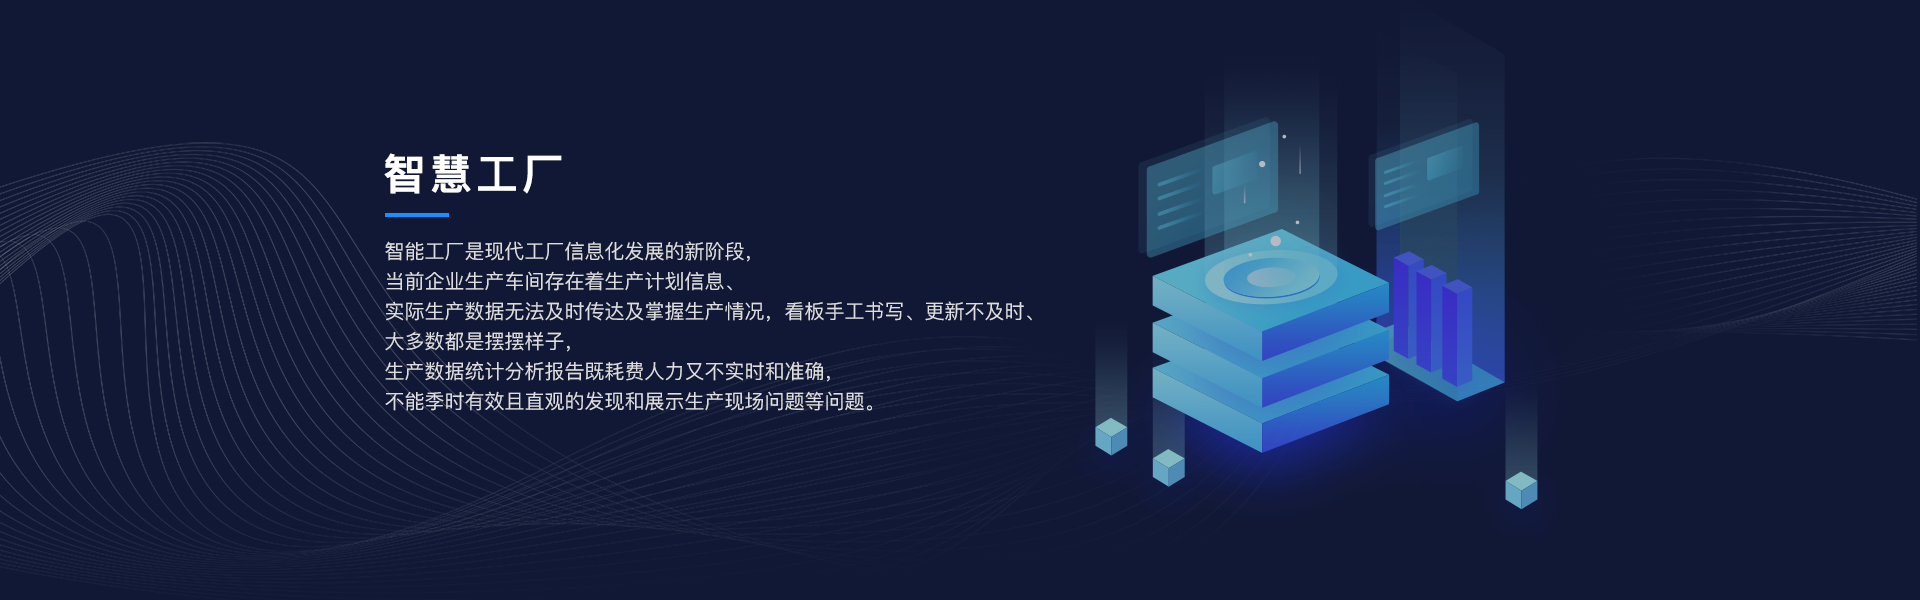
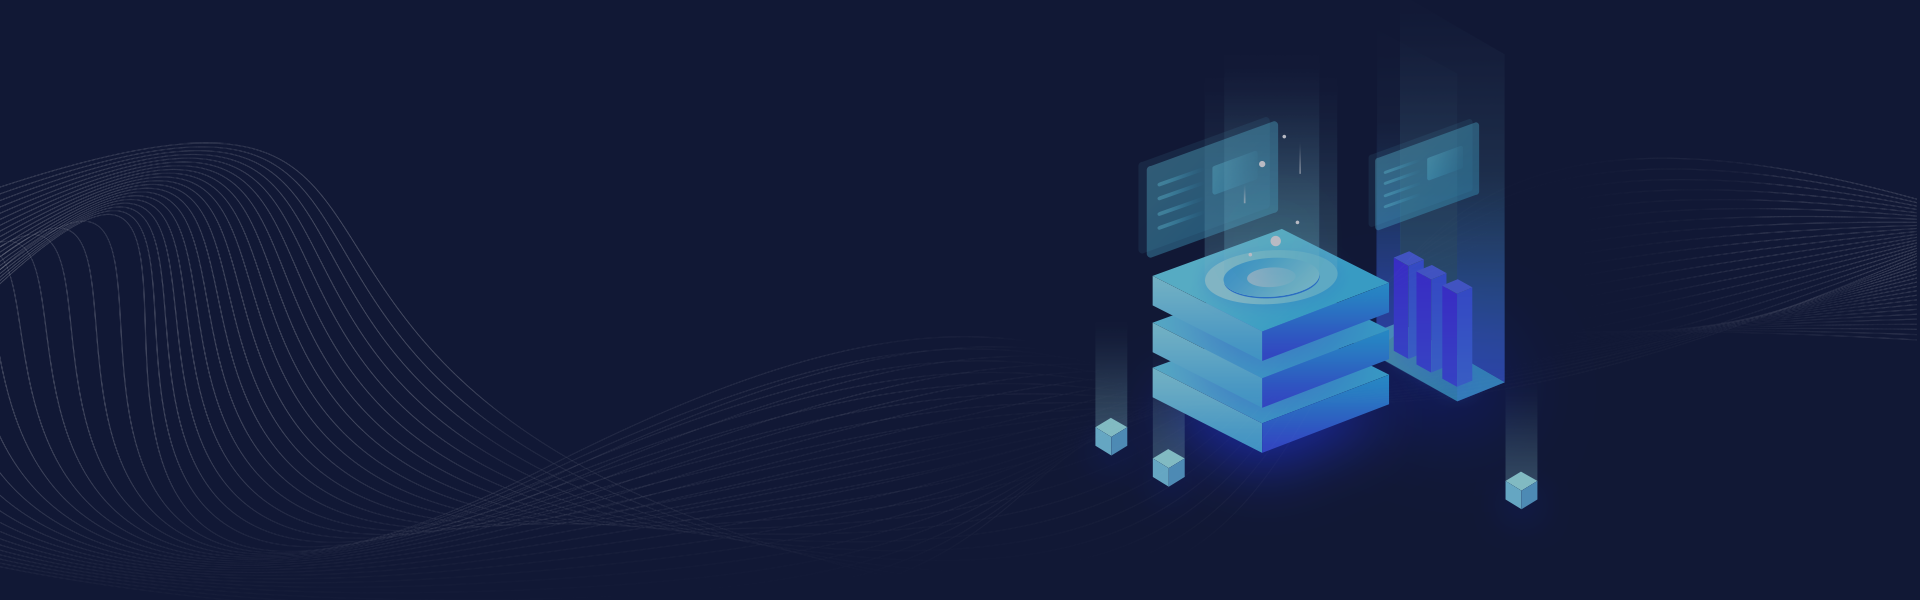
app banner修改

Changed region(s): [[0.1875, 0.39, 0.5312, 0.69], [0.1875, 0.24, 0.3125, 0.33]]

diff --git a/views/SmartFinance.html b/views/SmartFinance.html
@@ -57,8 +57,9 @@
             <ul class="nav navbar-nav">
               <li class="dropdown btnBox dropdownActive dropdownShow"><a href="../index.html">首页</a></li>
               <li class="dropdown btnBox">
-                <a href="javascript:void(0)" class="dropdown-toggle" data-toggle="dropdown" role="button" aria-haspopup="true"
-                  aria-expanded="false">产品服务<span class="spanBtn glyphicon glyphicon-menu-down"></span></a>
+                <a href="javascript:void(0)" class="dropdown-toggle" data-toggle="dropdown" role="button"
+                  aria-haspopup="true" aria-expanded="false">产品服务<span
+                    class="spanBtn glyphicon glyphicon-menu-down"></span></a>
                 <ul class="dropdown-menu">
                   <li><a href="./VisualTerrace.html">数据可视化平台</a></li>
                   <li><a href="./ProductSerice.html">数据服务</a></li>
@@ -67,8 +68,9 @@
                 </ul>
               </li>
               <li class="dropdown btnBox">
-                <a href="javascript:void(0)" class="dropdown-toggle  navActive" data-toggle="dropdown" role="button" aria-haspopup="true"
-                  aria-expanded="false">解决方案<span class="spanBtn glyphicon glyphicon-menu-down"></span></a>
+                <a href="javascript:void(0)" class="dropdown-toggle  navActive" data-toggle="dropdown" role="button"
+                  aria-haspopup="true" aria-expanded="false">解决方案<span
+                    class="spanBtn glyphicon glyphicon-menu-down"></span></a>
                 <ul class="dropdown-menu dropdown-doublerow">
                   <li><a href="javascript:void(0)">智慧城市</a></li>
                   <li><a href="javascript:void(0)">智慧工厂</a></li>
@@ -83,8 +85,9 @@
               <li class="dropdown btnBox"><a href="./ClientCase.html">客户案例</a></li>
               <li class="dropdown btnBox"><a href="./UserCenter.html">用户中心</a></li>
               <li class="dropdown btnBox">
-                <a href="javascript:void(0)" class="dropdown-toggle" data-toggle="dropdown" role="button" aria-haspopup="true"
-                  aria-expanded="false">关于我们<span class="spanBtn glyphicon glyphicon-menu-down"></span></a>
+                <a href="javascript:void(0)" class="dropdown-toggle" data-toggle="dropdown" role="button"
+                  aria-haspopup="true" aria-expanded="false">关于我们<span
+                    class="spanBtn glyphicon glyphicon-menu-down"></span></a>
                 <ul class="dropdown-menu">
                   <li><a href="./CompanyLetter.html">公司介绍</a></li>
                   <li><a href="./Aboutus.html">加入我们</a></li>
@@ -101,7 +104,21 @@
     </div>
     <!-- 智慧能源内容 -->
     <div class="solution-content">
-      <div class="article-introduce-jr"></div>
+      <div class="article-introduce-jr">
+        <div class="article-box">
+          <h4 class="article-title">智慧金融</h4>
+          <div class="bottom-line"></div>
+          <div class="article-text">
+            智能金融(Smart finance)秉承“以客户为中心，</br>
+            实现共赢之道”的服务理念，</br>
+            为金融机构量身打造新型“智慧金融”可视化平台，</br>
+            提供IT咨询、产品研发、系统集成、系统运维、软件外包、</br>
+            云计算、大数据分析等全方位信息可视化化服务，</br>
+            在帮助客户进一步提升信息化管理水平的同时，</br>
+            能够使客户更加智慧地做出业务决策。</br>
+          </div>
+        </div>
+      </div>
       <!-- 加入我们 -->
       <div class="introduced-box">
         <div class="introduced-content">

diff --git a/js/rollList.js b/js/rollList.js
@@ -1,14 +1,35 @@
 $('.btnBox').mouseenter(function () {
   $(this).children().attr("style", "display:block;");
 })
-// $('.dropdown-menu').mouseenter(function () {
-//   $(this).attr("style", "display:block;");
-// })
-$('.mask').click(function () {
-  
-})
 $('.btnBox').mouseleave(function () {
   $(this).children().eq(1).attr("style", "display:none;");
 })
 
-// 划入导航
+window.onload = function () {
+  var arr = $('.dropdown').find('a')
+  var selId = ''
+  for (var index = 0; index < arr.length; index++) {
+    const element = arr[index];
+    const ele = element.href.split('/');
+    const newele = '/' + ele[ele.length - 1];
+    if (newele == window.location.pathname) {
+      selId = index;
+    }
+  }
+  $('.dropdown').find('a').removeClass('navActive');
+  $('.dropdown').find('a').eq(selId).addClass('navActive');
+
+  var arrf = $('.footer-down').find('a')
+  var selIdf = ''
+  for (var indexf = 0; indexf < arrf.length; indexf++) {
+    const elementf = arrf[indexf];
+    const elef = elementf.href.split('/');
+    const newelef = '/' + elef[elef.length - 1];
+    if (newelef == window.location.pathname) {
+      selIdf = indexf;
+    }
+  }
+  $('.footer-down').find('a').find('li').removeClass('li-active');
+  $('.footer-down').find('a').eq(selIdf).children('li').addClass('li-active');
+}
+

diff --git a/views/Solution.html b/views/Solution.html
@@ -85,7 +85,19 @@
     </div>
     <!-- 智慧能源内容 -->
     <div class="solution-content">
-      <div class="article-introduce"></div>
+      <div class="article-introduce">
+        <div class="article-box">
+          <h4 class="article-title">智慧能源</h4>
+          <div class="bottom-line"></div>
+          <div class="article-text">能源是经济增长的重要动力,</br>
+            作为紧急系统的基础,加快国民经济的发展,</br>
+            让电力,燃力,热力等看不见不能摸的用能信息可视化,</br>
+            并与生产运营相结合,</br>
+            形成单位制品能耗,日均网损,平均(水电奇热)价格等指标,</br>
+            协助管理者精准掌控企业状况,客观科学分析,</br>
+            为企业精细化管理提供新的数据化纬度.</div>
+        </div>
+      </div>
       <!-- 加入我们 -->
       <div class="introduced-box">
         <div class="introduced-content">

diff --git a/css/appstyle/appSolution.css b/css/appstyle/appSolution.css
@@ -49,6 +49,14 @@
     position: absolute;
     right: 80px;
   }
+  .article-introduce {
+    height: 450px;
+  }
+  
+  .article-box {
+    width: 100%;
+    max-width: 900px;
+  }
 }
 
 @media(min-width: 768px) and (max-width: 992px) {
@@ -282,6 +290,23 @@
   .int-pt{
     color:rgba(0,0,0,0.25);
   }
+  .article-introduce {
+    height: 300px;
+  }
+  .article-box {
+    width: 100%;
+    max-width: 600px;
+  }
+  .article-title {
+    font-size:22px;
+  }
+  .bottom-line {
+    width: 60px;
+    height: 2px;
+  }
+  .article-text {
+    font-size:16px;
+  }
 }
 
 @media(max-width: 768px) {
@@ -507,5 +532,22 @@
   }
   .int-pt{
     color:rgba(0,0,0,0.25);
+  }
+  .article-introduce {
+    height: 220px;
+  }
+  .article-box {
+    width: 100%;
+    max-width: 300px;
+  }
+  .article-title {
+    font-size:14px;
+  }
+  .bottom-line {
+    width: 60px;
+    height: 2px;
+  }
+  .article-text {
+    font-size:8px;
   }
 }

diff --git a/css/views/solution.css b/css/views/solution.css
@@ -72,6 +72,7 @@ body {
   height: 600px;
   display: flex;
   justify-content: center;
+  align-items: center;
   background: url(../../assets/img/banner_ny.png) no-repeat;
   background-size: 100% 100%;
 }
@@ -128,9 +129,33 @@ body {
   height: 600px;
   display: flex;
   justify-content: center;
+  align-items: center;
   background: url(../../assets/img/banner_jr.png) center center no-repeat;
   background-size: 100% 100%;
 }
+
+.article-box {
+  width: 1200px;
+}
+.article-title {
+  font-size:42px;
+  font-family:Microsoft YaHei;
+  font-weight:bold;
+  color:rgba(255,255,255,1);
+}
+.bottom-line {
+  width: 100px;
+  height: 4px;
+  margin: 10px 0;
+  background: #1890FF;
+}
+.article-text {
+  font-size:20px;
+  font-family:Microsoft YaHei;
+  font-weight:400;
+  color:rgba(255,255,255,.8);
+}
+
 .introduced-box {
   width: 100%;
   height: 600px;

diff --git a/views/UserCenter.html b/views/UserCenter.html
@@ -64,7 +64,7 @@
               </ul>
             </li>
             <li class="dropdown btnBox"><a href="./ClientCase.html">客户案例</a></li>
-            <li class="dropdown btnBox"><a class="navActive" href="javascript:void(0)">用户中心</a></li>
+            <li class="dropdown btnBox"><a href="./UserCenter.html">用户中心</a></li>
             <li class="dropdown btnBox">
               <a href="javascript:void(0)" class="dropdown-toggle" data-toggle="dropdown" role="button"
                 aria-haspopup="true" aria-expanded="false">关于我们<span
@@ -748,6 +748,7 @@
   })
   $('.book-content').eq(0).siblings('.book-content').hide()
 
+  initMenu()
   // tabtree()
   // function tabtree() {
   //   for (var i = 0; i < $('.list-child').length; i++) {

diff --git a/views/VisualTerrace.html b/views/VisualTerrace.html
@@ -41,7 +41,7 @@
                 <a href="javascript:void(0)" class="dropdown-toggle navActive" data-toggle="dropdown" role="button" aria-haspopup="true"
                   aria-expanded="false">产品服务<span class="spanBtn glyphicon glyphicon-menu-down"></span></a>
                 <ul class="dropdown-menu">
-                  <li><a class="navActive" href="javascript:void(0)">数据可视化平台</a></li>
+                  <li><a  href="./VisualTerrace.html">数据可视化平台</a></li>
                   <li><a href="./ProductSerice.html">数据服务</a></li>
                   <li><a href="./CustomServe.html">可视化定制服务</a></li>
                   <li><a href="./ClientCase.html">知识云系统</a></li>
